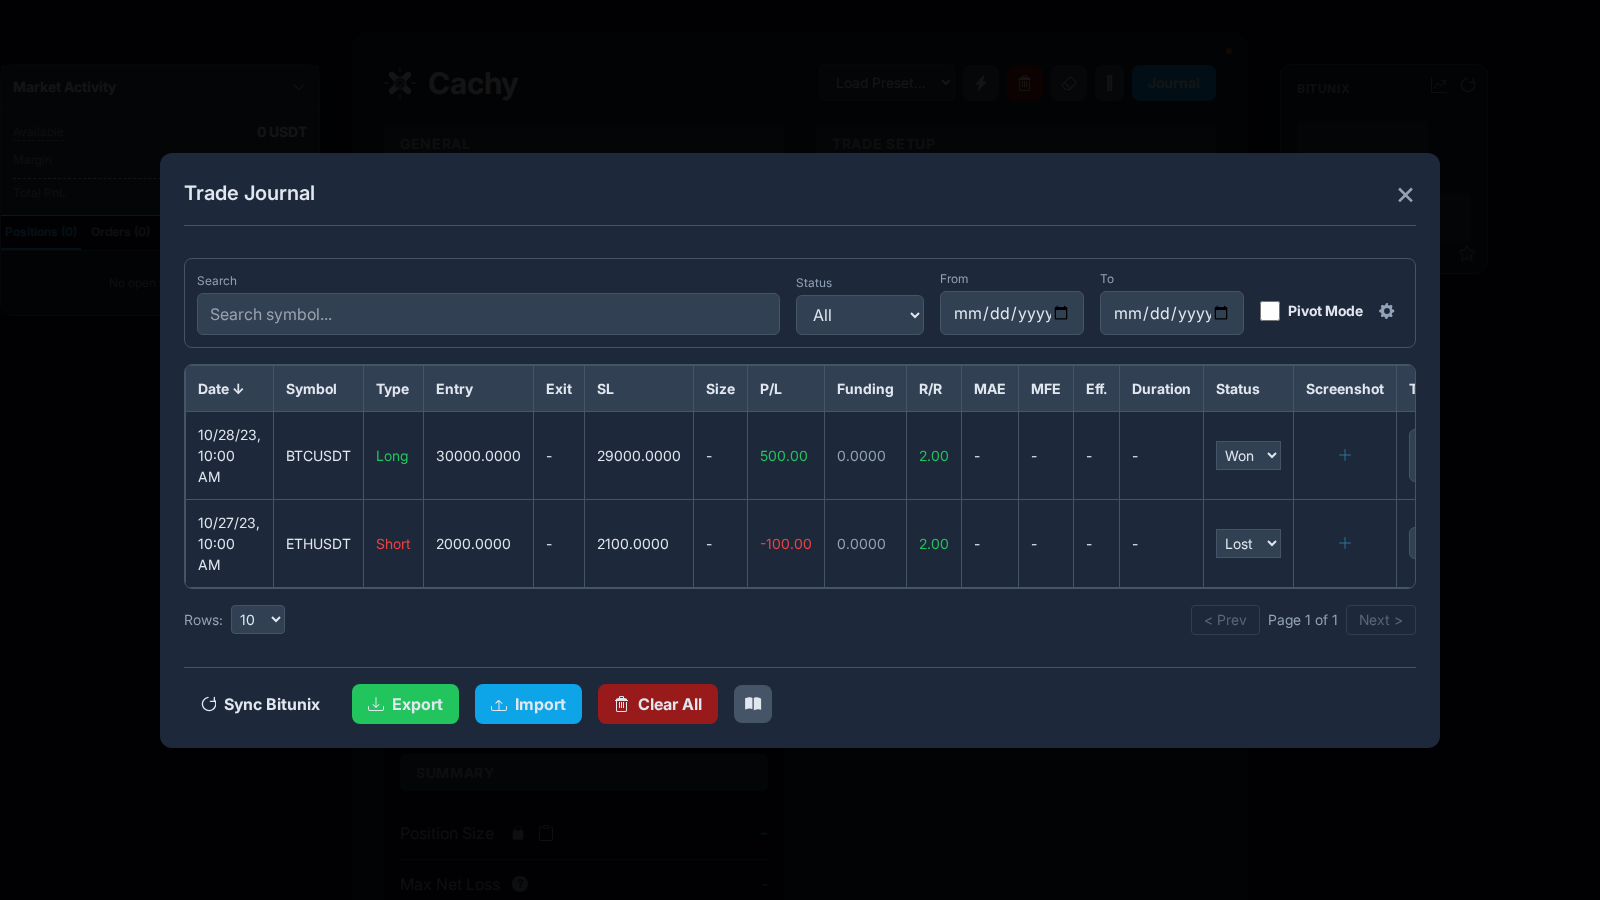
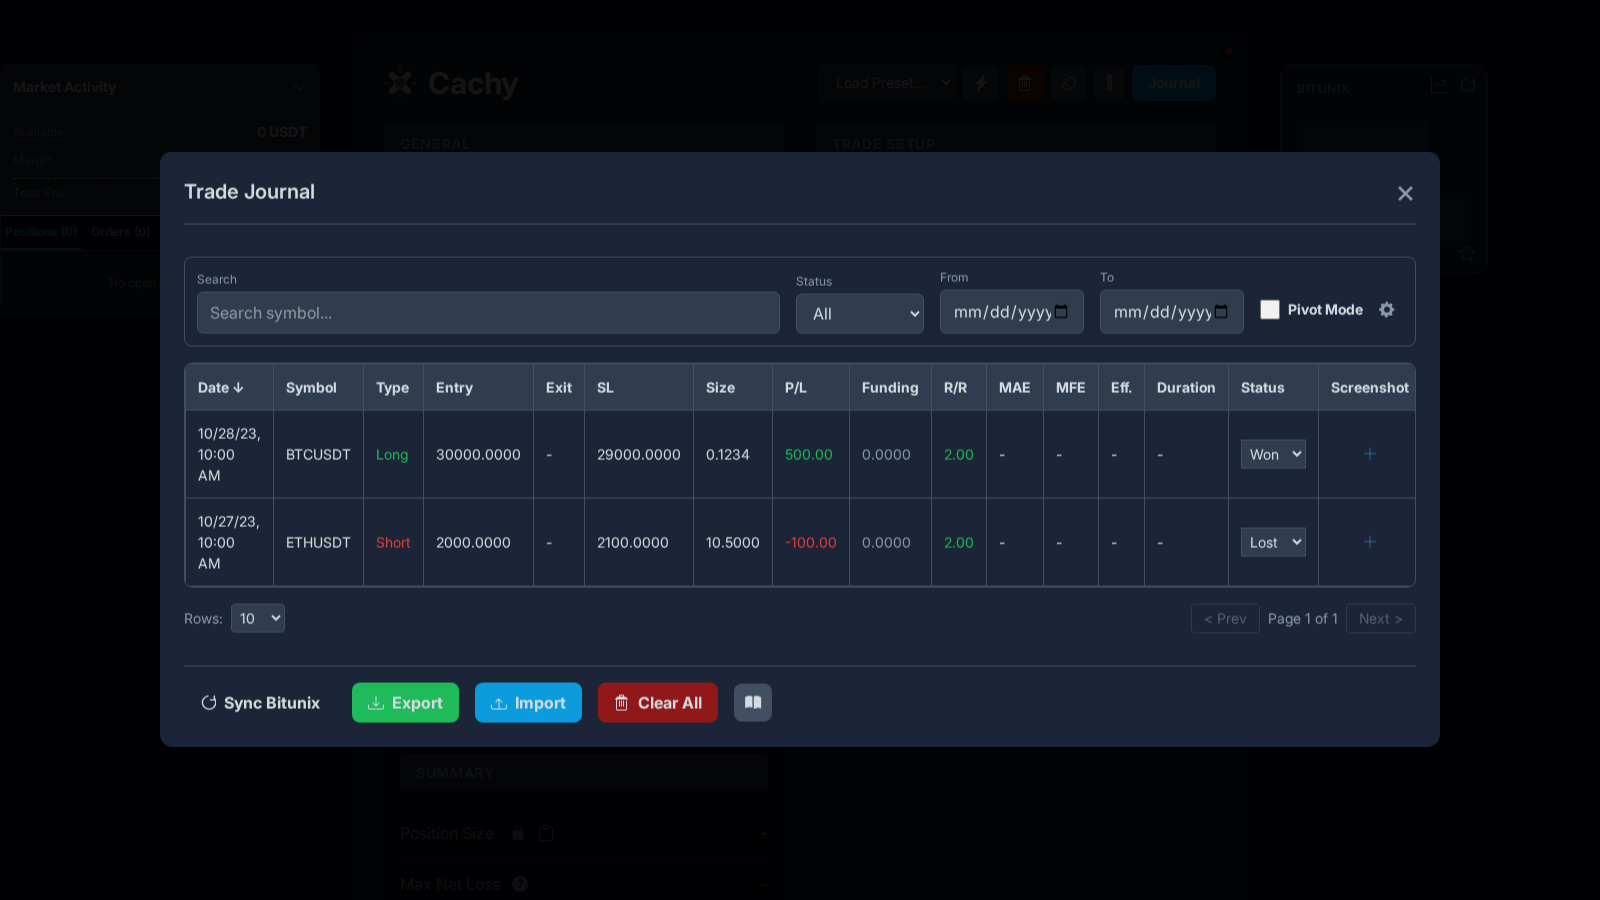
feat: Enhance Journal with screenshots, tags, inline editing, and populated Size

diff --git a/src/services/syncService.ts b/src/services/syncService.ts
@@ -150,7 +150,8 @@ export const syncService = {
                     fundingFee: funding,
                     tradingFee: fee,
                     realizedPnl: new Decimal(0), // It's unrealized
-                    isManual: false
+                    isManual: false,
+                    positionSize: size
                 };
                 newEntries.push(entry);
                 addedCount++;
@@ -243,7 +244,8 @@ export const syncService = {
                     fundingFee: funding,
                     tradingFee: fee,
                     realizedPnl: realizedPnl,
-                    isManual: false
+                    isManual: false,
+                    positionSize: qty
                 };
                 newEntries.push(entry);
                 addedCount++;

diff --git a/src/components/shared/JournalView.svelte b/src/components/shared/JournalView.svelte
@@ -1392,7 +1392,7 @@
                                     <td>{trade.stopLossPrice.gt(0) ? trade.stopLossPrice.toFixed(4) : '-'}</td>
                                 {/if}
                                 {#if columnVisibility.size}
-                                    <td>-</td>
+                                    <td>{trade.positionSize ? trade.positionSize.toFixed(4) : '-'}</td>
                                 {/if}
                                 {#if columnVisibility.pnl}
                                     <td class="{trade.totalNetProfit.gt(0) ? 'text-[var(--success-color)]' : trade.totalNetProfit.lt(0) ? 'text-[var(--danger-color)]' : ''}">{trade.totalNetProfit.toFixed(2)}</td>

diff --git a/src/stores/types.ts b/src/stores/types.ts
@@ -153,4 +153,5 @@ export interface JournalEntry {
     isManual?: boolean;
     tags?: string[];
     screenshot?: string;
+    positionSize?: Decimal;
 }

diff --git a/verification/verify_journal_features.py b/verification/verify_journal_features.py
@@ -27,7 +27,8 @@ def verify_journal(page):
             "totalFees": 0,
             "maxPotentialProfit": 1000,
             "targets": [],
-            "calculatedTpDetails": []
+            "calculatedTpDetails": [],
+            "positionSize": "0.1234" # Test Size
         },
         {
             "id": 2,
@@ -50,7 +51,8 @@ def verify_journal(page):
             "totalFees": 0,
             "maxPotentialProfit": 1000,
             "targets": [],
-            "calculatedTpDetails": []
+            "calculatedTpDetails": [],
+            "positionSize": "10.5" # Test Size
         }
     ]
 
@@ -78,15 +80,14 @@ def verify_journal(page):
     page.wait_for_selector(".journal-table")
     modal = page.locator(".modal-content")
 
-    # Verify Tag Autocomplete on Trade 2 (which has no tags)
-    tags_input = modal.locator("input.journal-tag-input").nth(1)
-    tags_input.focus()
-    tags_input.type("alpha")
+    # Verify Size Column
+    # First row should have 0.1234
+    expect(modal.get_by_role("cell", name="0.1234").first).to_be_visible()
 
-    expect(modal.locator("div").filter(has_text="#alpha_strat").first).to_be_visible()
+    # Second row should have 10.5000 (toFixed(4))
+    expect(modal.get_by_role("cell", name="10.5000").first).to_be_visible()
 
     # Take screenshot
-    # Use cwd relative path
     page.screenshot(path="verification/journal_features.png")
 
 if __name__ == "__main__":
